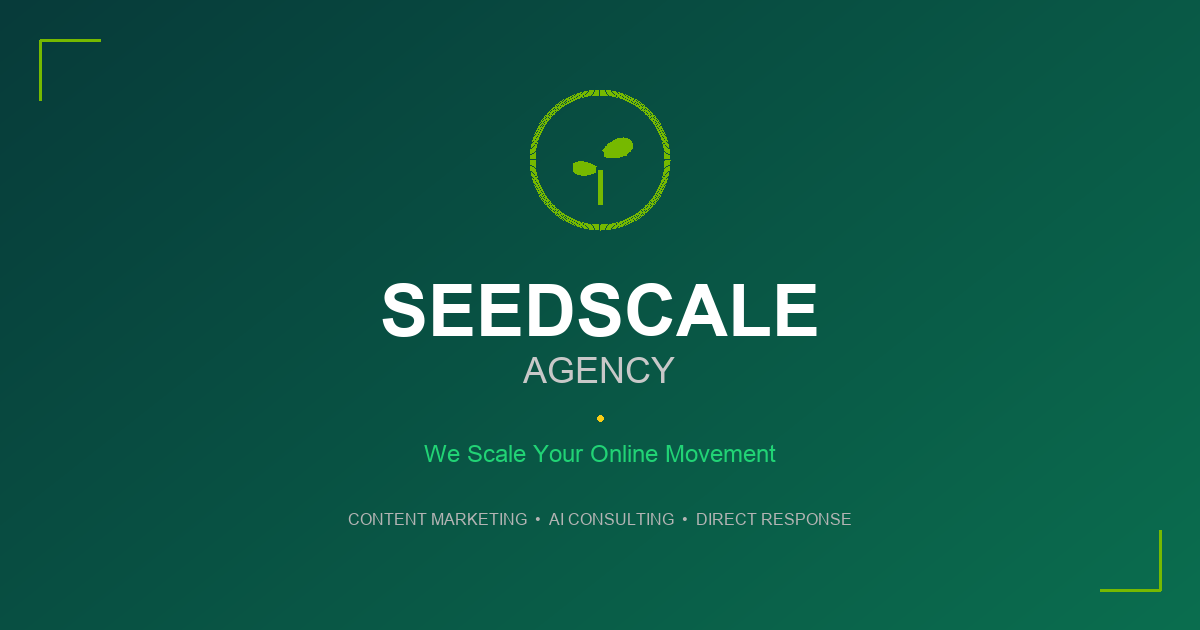
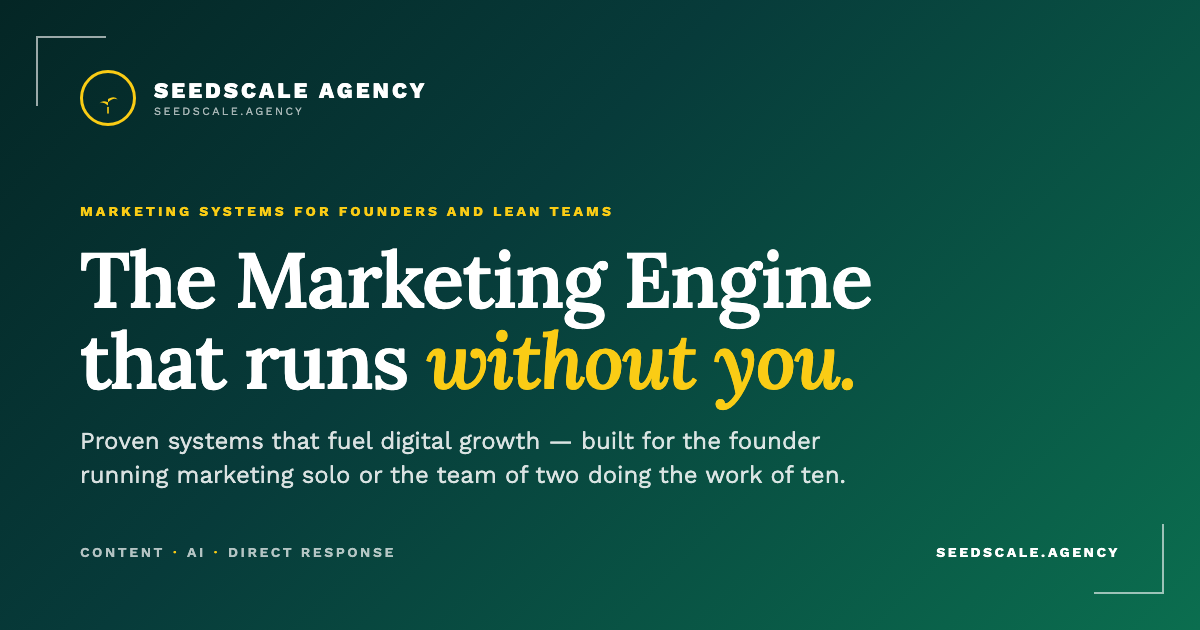
Replace OG image with new headline + branding
Old image (March 20) had "We Scale Your Online Movement" baked into
pixels — stale positioning shown whenever the URL was shared.

New image (1200x630, exact OG spec):
- Headline: "The Marketing Engine that runs without you."
  ("without you" in gold italic)
- Eyebrow: "MARKETING SYSTEMS FOR FOUNDERS AND LEAN TEAMS"
- Subtitle: "Proven systems that fuel digital growth — built for the
  founder running marketing solo or the team of two doing the work
  of ten."
- Footer: CONTENT · AI · DIRECT RESPONSE | seedscale.agency
- Matches website hero h1 + brand colors (dark green gradient,
  gold accents, decorative corner brackets)

Also added og-image-source.html (the HTML I rendered the PNG from via
Chrome headless) so the image can be regenerated easily if positioning
changes again.

diff --git a/og-image-source.html b/og-image-source.html
@@ -1,0 +1,146 @@
+<!DOCTYPE html>
+<html>
+<head>
+<meta charset="UTF-8">
+<style>
+  @import url('https://fonts.googleapis.com/css2?family=Work+Sans:wght@300;400;600;700;800&family=Lora:ital,wght@0,400;0,600;1,600&display=swap');
+  * { margin: 0; padding: 0; box-sizing: border-box; }
+  html, body { width: 1200px; height: 630px; overflow: hidden; }
+  body {
+    font-family: 'Work Sans', sans-serif;
+    background: linear-gradient(135deg, #042625 0%, #073B3A 40%, #0B6E4F 100%);
+    color: #fff;
+    position: relative;
+    padding: 70px 80px;
+    display: flex;
+    flex-direction: column;
+    justify-content: space-between;
+  }
+  /* Decorative corner brackets */
+  .bracket {
+    position: absolute;
+    width: 70px;
+    height: 70px;
+    border-color: #FACC15;
+    opacity: 0.6;
+  }
+  .bracket.tl { top: 36px; left: 36px; border-top: 2px solid; border-left: 2px solid; }
+  .bracket.br { bottom: 36px; right: 36px; border-bottom: 2px solid; border-right: 2px solid; }
+
+  /* Top brand row */
+  .brand-row {
+    display: flex;
+    align-items: center;
+    gap: 18px;
+  }
+  .brand-logo {
+    width: 56px; height: 56px;
+    border: 3px solid #FACC15;
+    border-radius: 50%;
+    display: flex;
+    align-items: center;
+    justify-content: center;
+    flex-shrink: 0;
+  }
+  .brand-text {
+    font-weight: 800;
+    font-size: 22px;
+    letter-spacing: 0.14em;
+    text-transform: uppercase;
+    color: #fff;
+  }
+  .brand-text small {
+    display: block;
+    font-size: 11px;
+    letter-spacing: 0.22em;
+    color: rgba(255,255,255,0.65);
+    font-weight: 500;
+    margin-top: 2px;
+  }
+
+  /* Hero block */
+  .hero {
+    max-width: 940px;
+  }
+  .hero .eyebrow {
+    font-size: 14px;
+    letter-spacing: 0.22em;
+    text-transform: uppercase;
+    color: #FACC15;
+    font-weight: 700;
+    margin-bottom: 18px;
+  }
+  .hero h1 {
+    font-family: 'Lora', serif;
+    font-size: 78px;
+    line-height: 1.04;
+    font-weight: 700;
+    letter-spacing: -0.02em;
+    margin: 0;
+    color: #fff;
+  }
+  .hero h1 em {
+    color: #FACC15;
+    font-style: italic;
+  }
+  .hero p {
+    margin-top: 24px;
+    font-size: 24px;
+    line-height: 1.4;
+    color: rgba(255,255,255,0.85);
+    font-weight: 400;
+    max-width: 820px;
+  }
+
+  /* Bottom row */
+  .footer-row {
+    display: flex;
+    align-items: center;
+    justify-content: space-between;
+    color: rgba(255,255,255,0.7);
+    font-size: 14px;
+    letter-spacing: 0.18em;
+    text-transform: uppercase;
+    font-weight: 600;
+  }
+  .footer-row .pillars span { color: #FACC15; margin: 0 8px; }
+  .url {
+    color: #fff;
+    font-weight: 700;
+  }
+</style>
+</head>
+<body>
+  <div class="bracket tl"></div>
+  <div class="bracket br"></div>
+
+  <!-- TOP: brand mark -->
+  <div class="brand-row">
+    <div class="brand-logo">
+      <!-- Seedling icon (gold) -->
+      <svg width="32" height="32" viewBox="0 0 60 60" fill="none">
+        <path d="M30 48 L30 58" stroke="#FACC15" stroke-width="3" stroke-linecap="round"/>
+        <path d="M30 38 Q40 28 48 33 Q42 25 30 32" fill="#FACC15"/>
+        <path d="M30 44 Q20 36 14 40 Q20 33 30 38" fill="#FACC15"/>
+      </svg>
+    </div>
+    <div class="brand-text">
+      Seedscale Agency
+      <small>seedscale.agency</small>
+    </div>
+  </div>
+
+  <!-- MIDDLE: hero copy -->
+  <div class="hero">
+    <p class="eyebrow">Marketing Systems for Founders and Lean Teams</p>
+    <h1>The Marketing Engine<br/>that runs <em>without you.</em></h1>
+    <p>Proven systems that fuel digital growth — built for the founder running marketing solo or the team of two doing the work of ten.</p>
+  </div>
+
+  <!-- BOTTOM: pillars -->
+  <div class="footer-row">
+    <div class="pillars">Content<span>·</span>AI<span>·</span>Direct Response</div>
+    <div class="url">seedscale.agency</div>
+  </div>
+</body>
+</html>
